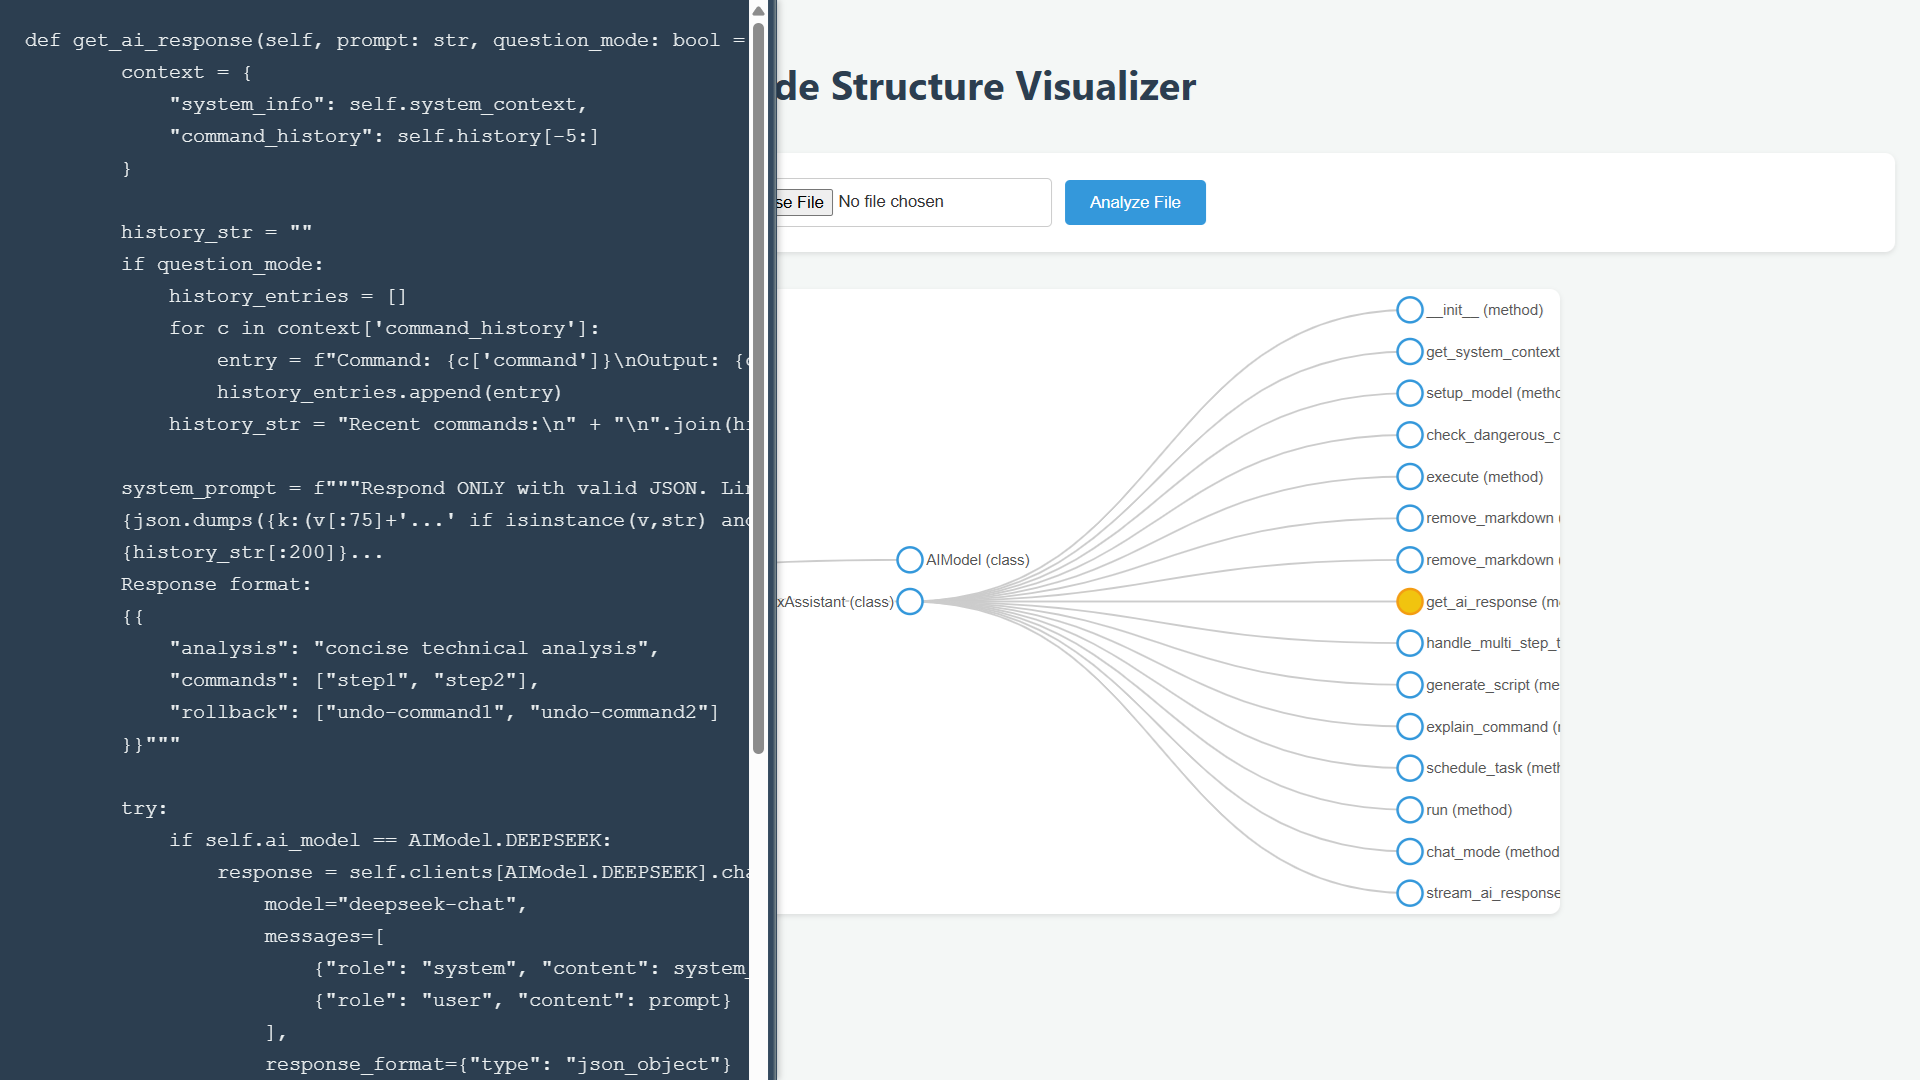
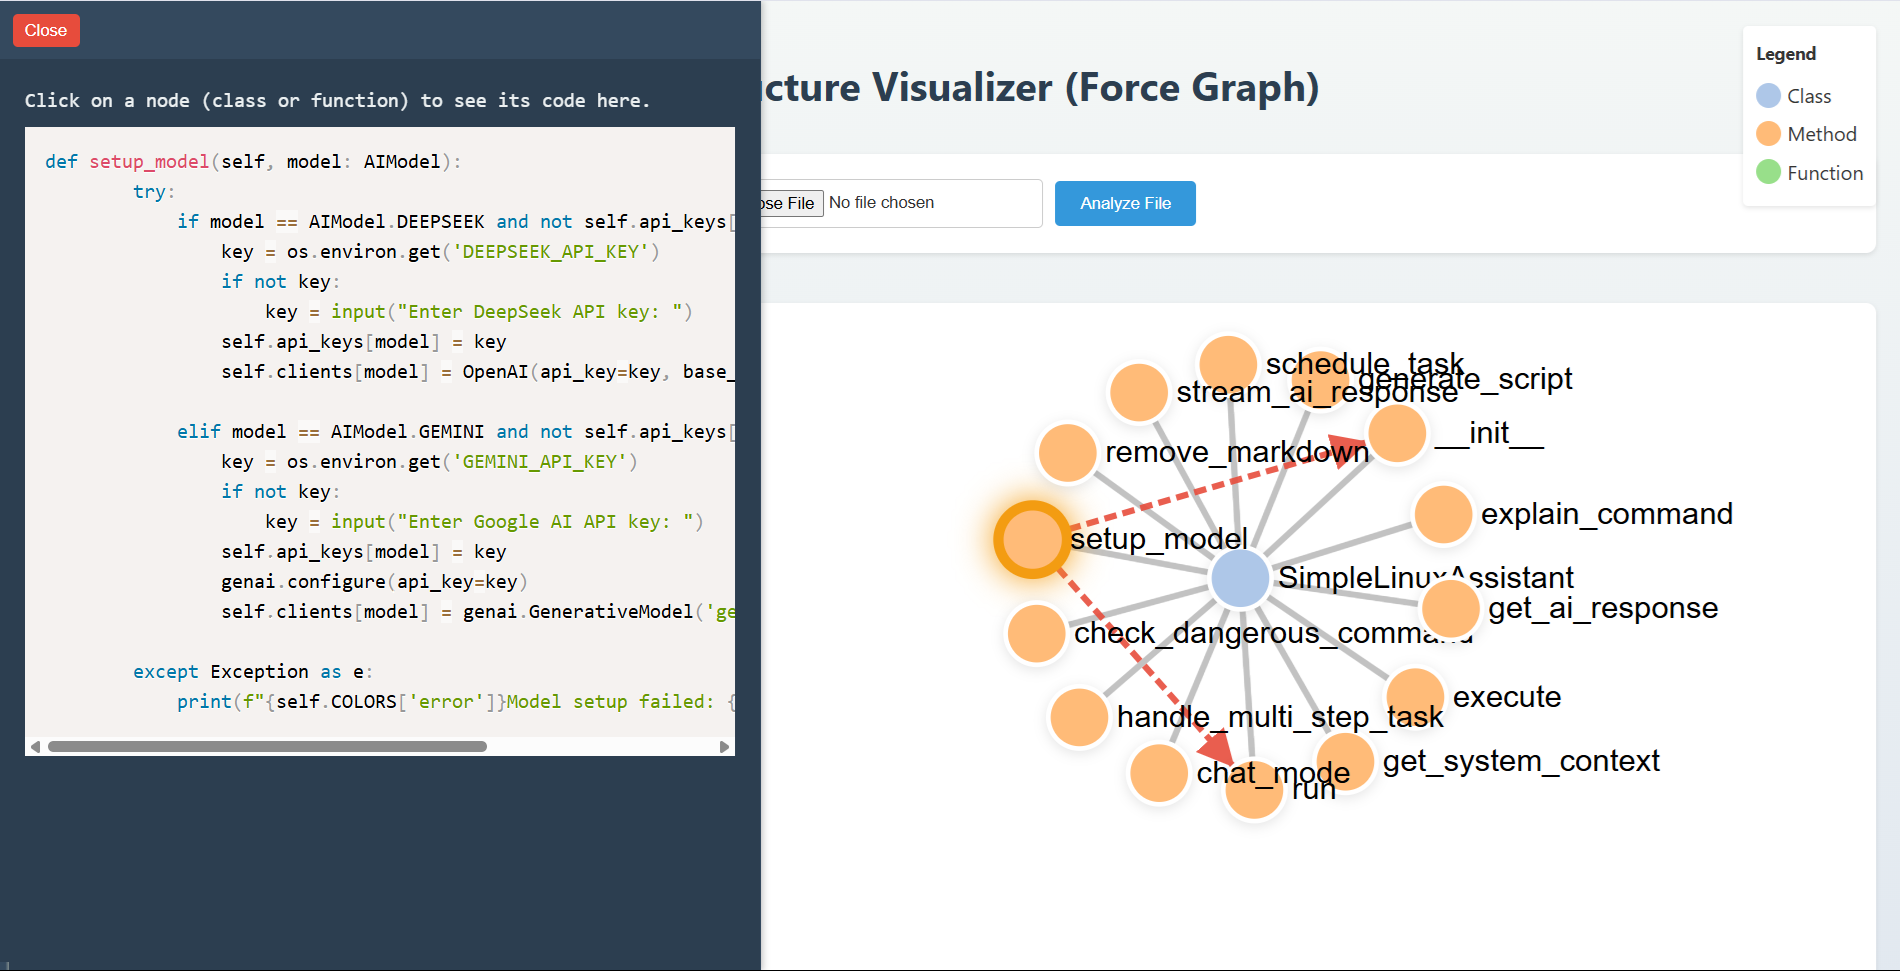
Improve style

diff --git a/templates/index.html b/templates/index.html
@@ -46,6 +46,13 @@
         <p class="error">Error: {{ error }}</p>
     {% endif %}
 
+    <div id="legend">
+        <h3>Legend</h3>
+        <div><span style="background-color: #aec7e8;"></span> Class</div>
+        <div><span style="background-color: #ffbb78;"></span> Method</div>
+        <div><span style="background-color: #98df8a;"></span> Function</div>
+    </div>
+
     <svg width="960" height="600"></svg> {# Increased height slightly #}
 
     <div id="code-display">
@@ -59,8 +66,8 @@
     <script>
         const codeStructure = {{ code_structure_json | safe }};
         const svg = d3.select("svg");
-        const width = +svg.attr("width");
-        const height = +svg.attr("height");
+        const width = svg.node().clientWidth;
+        const height = svg.node().clientHeight || 600; // Fallback if height not set
 
         // --- Data Preparation for Force Graph ---
         const graphNodes = [];
@@ -156,6 +163,8 @@
                 .attr("x", 12)
                 .attr("y", 3)
                 .text(d => d.name);
+            
+            node.append("title").text(d => d.name);
 
             // --- Simulation Tick Function ---
             simulation.on("tick", () => {
@@ -207,28 +216,27 @@
 
             // Function to draw call links (Arrow from clicked node TO caller)
             function drawCallLinks(clickedNodeData) {
-                callLinkGroup.selectAll("*").remove(); // Clear previous
-
+                callLinkGroup.selectAll("*").remove();
                 if (clickedNodeData.called_by && clickedNodeData.called_by.length > 0) {
-                    const clickedNode = nodesById.get(clickedNodeData.id); // Get the simulation node object
+                    const clickedNode = nodesById.get(clickedNodeData.id);
                     if (!clickedNode) return;
 
                     clickedNodeData.called_by.forEach(callerId => {
                         const callerNode = nodesById.get(callerId);
                         if (callerNode) {
-                            // Store the node objects directly for the tick update
                             const linkData = { source: clickedNode, target: callerNode };
-
                             callLinkGroup.append("line")
-                                .datum(linkData) // Bind data for tick updates
+                                .datum(linkData)
                                 .attr("class", "call-link")
-                                .attr("x1", d => d.source.x) // Initial position
+                                .attr("x1", d => d.source.x)
                                 .attr("y1", d => d.source.y)
-                                .attr("x2", d => d.target.x)
-                                .attr("y2", d => d.target.y)
-                                .attr("marker-end", "url(#arrow)");
-                        } else {
-                            console.warn(`Caller node with ID ${callerId} not found in map.`);
+                                .attr("x2", d => d.source.x) // Start at source
+                                .attr("y2", d => d.source.y)
+                                .attr("marker-end", "url(#arrow)")
+                                .transition()
+                                .duration(500)
+                                .attr("x2", d => d.target.x) // Animate to target
+                                .attr("y2", d => d.target.y);
                         }
                     });
                 }

diff --git a/static/style.css b/static/style.css
@@ -227,3 +227,43 @@ svg {
     font-size: 14px;
     font-weight: bold;
 }
+
+svg {
+    width: 100%;
+    height: auto;
+    max-height: 600px;
+    display: block;
+    margin: 0 auto;
+    background-color: #ffffff;
+    border-radius: 8px;
+    box-shadow: 0 2px 4px rgba(0, 0, 0, 0.1);
+}
+
+#legend {
+    position: absolute;
+    top: 20px;
+    right: 20px;
+    background-color: white;
+    padding: 10px;
+    border-radius: 4px;
+    box-shadow: 0 2px 4px rgba(0,0,0,0.1);
+}
+
+#legend h3 {
+    margin: 0 0 10px 0;
+    font-size: 14px;
+}
+
+#legend div {
+    display: flex;
+    align-items: center;
+    gap: 5px;
+    margin-bottom: 5px;
+}
+
+#legend span {
+    width: 20px;
+    height: 20px;
+    display: inline-block;
+    border-radius: 50%;
+}
